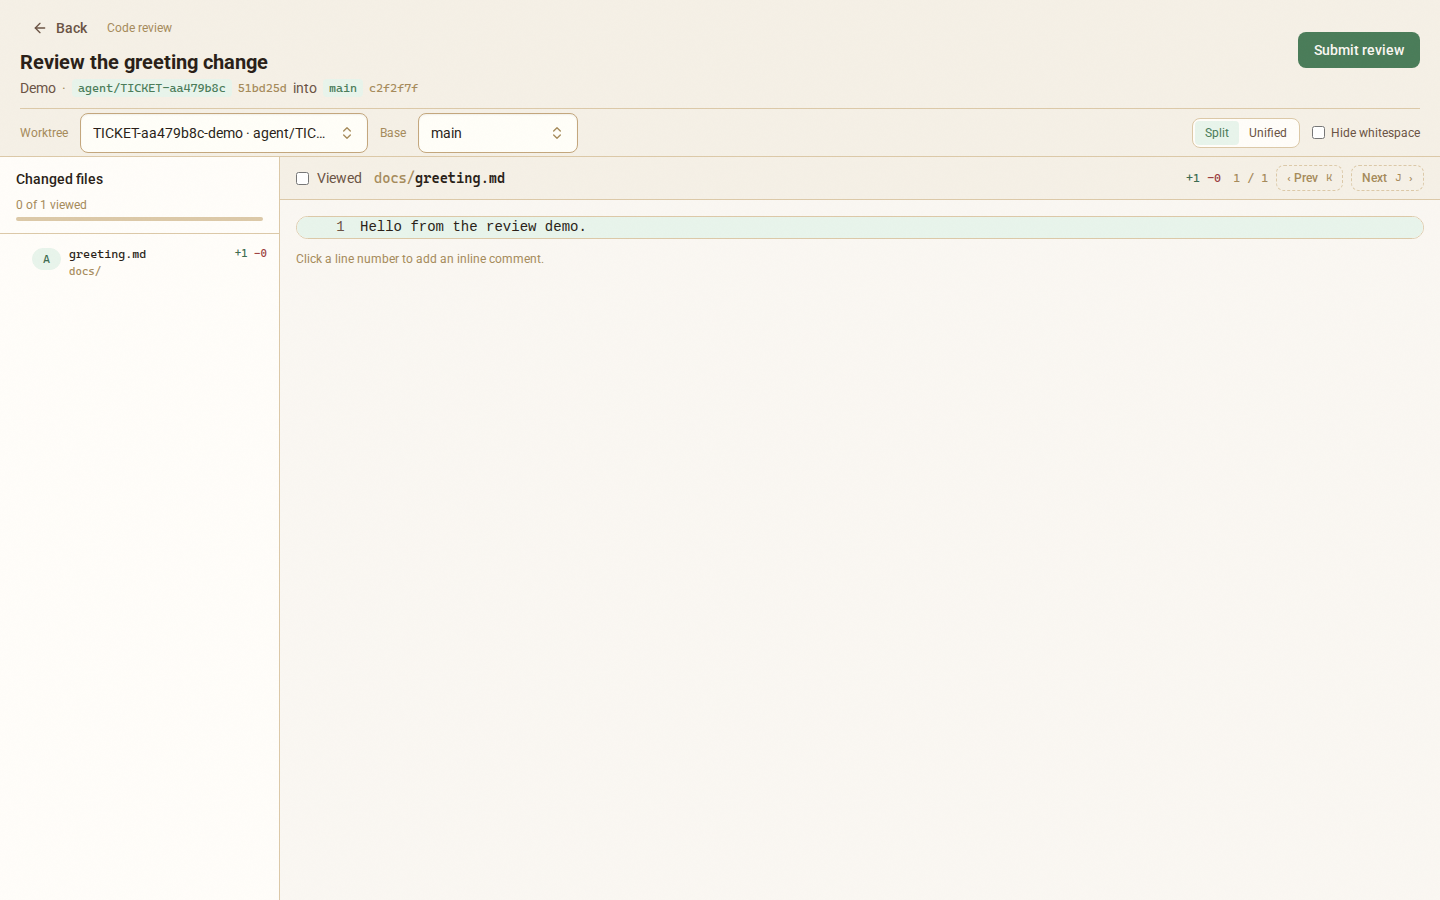
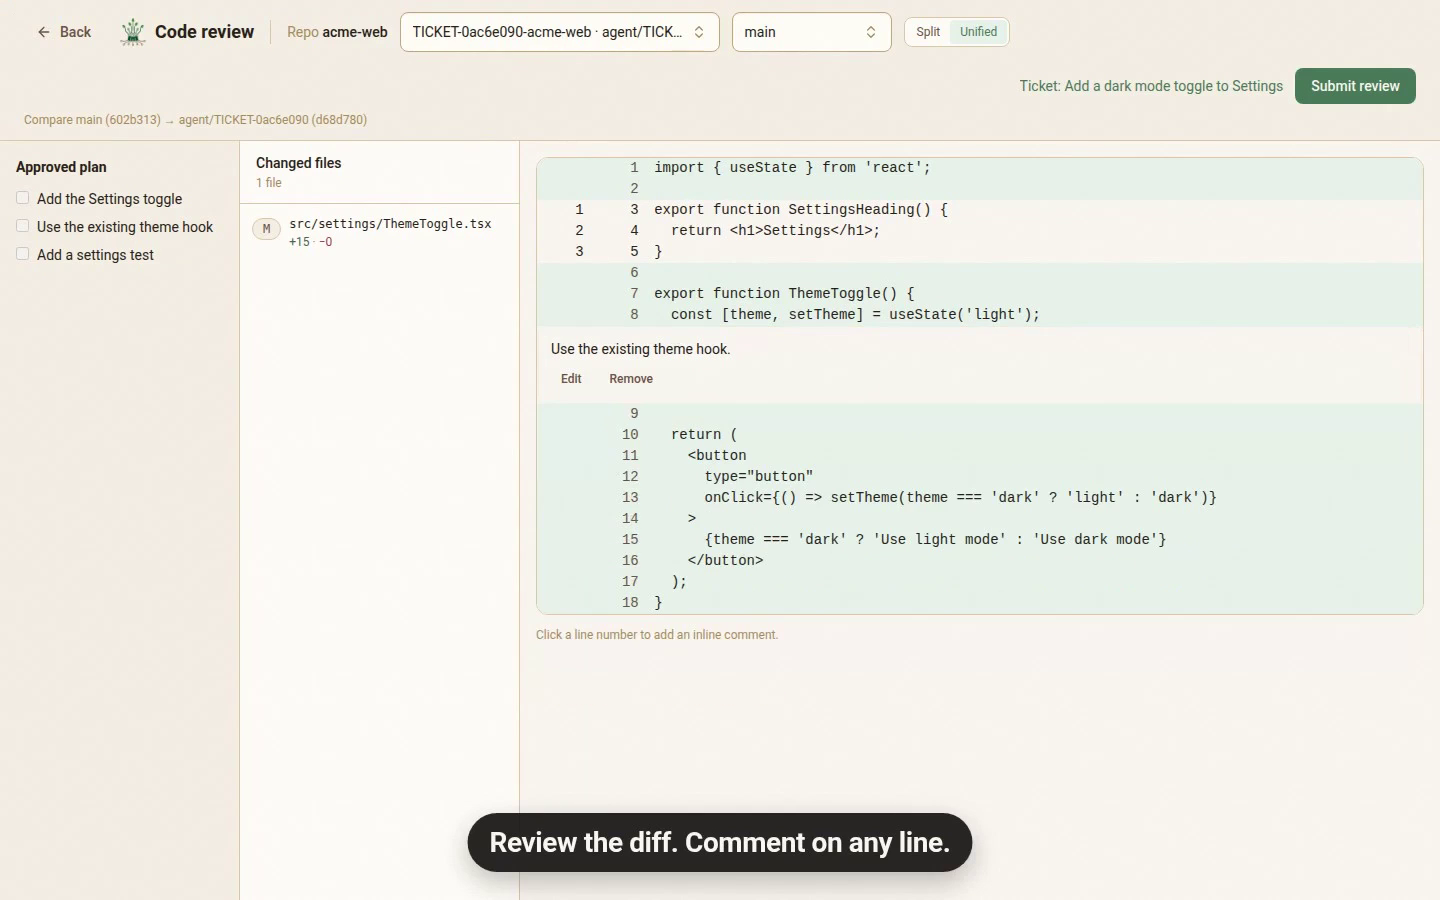
Use the dark mode toggle example in the review-before-merging post

diff --git a/website/src/content/blog/en/review-before-merging.md b/website/src/content/blog/en/review-before-merging.md
@@ -51,9 +51,13 @@ Its review is a second opinion, not a sign-off. You still read the diff and deci
 4. When the ticket reaches **Wait for Human Review**, click **Review code**. Comment on lines, or accept the work.
 5. Click **Merge…** when you're ready.
 
-![A ticket in Plan Review. The proposed plan says to add docs/greeting.md, with Approve plan and Ask for changes below it.](/blog/review-before-merging/plan-review.png "You approve the plan before any code is written.")
+Here is what that looks like. The ticket asks for a dark mode toggle in Settings. The PM agent's plan has three steps: add the toggle, use the existing theme hook, and add a settings test.
 
-![Code review page with the changed files on the left and the diff for docs/greeting.md on the right.](/blog/review-before-merging/diff-before-accept.png "The diff you review before you accept the work.")
+![A ticket titled Add a dark mode toggle to Settings in Plan Review. The proposed plan builds a switch in the Settings row, with three steps: add the Settings toggle, use the existing theme hook, and add a settings test.](/blog/review-before-merging/plan-review.png "The plan, before any code is written.")
+
+When the work comes back, the approved plan sits next to the diff. Two things stand out. The new component keeps its own theme state instead of using the existing theme hook, and only one file changed, so there is no settings test. Both are worth a comment before you accept.
+
+![Code review for the same ticket. The approved plan is on the left, src/settings/ThemeToggle.tsx is the only changed file, and a comment under the useState line says to use the existing theme hook.](/blog/review-before-merging/diff-before-accept.png "The diff next to the approved plan, with a comment on the line that skips the theme hook.")
 
 [Concepts](/docs/concepts) explains each step a ticket goes through.
 
